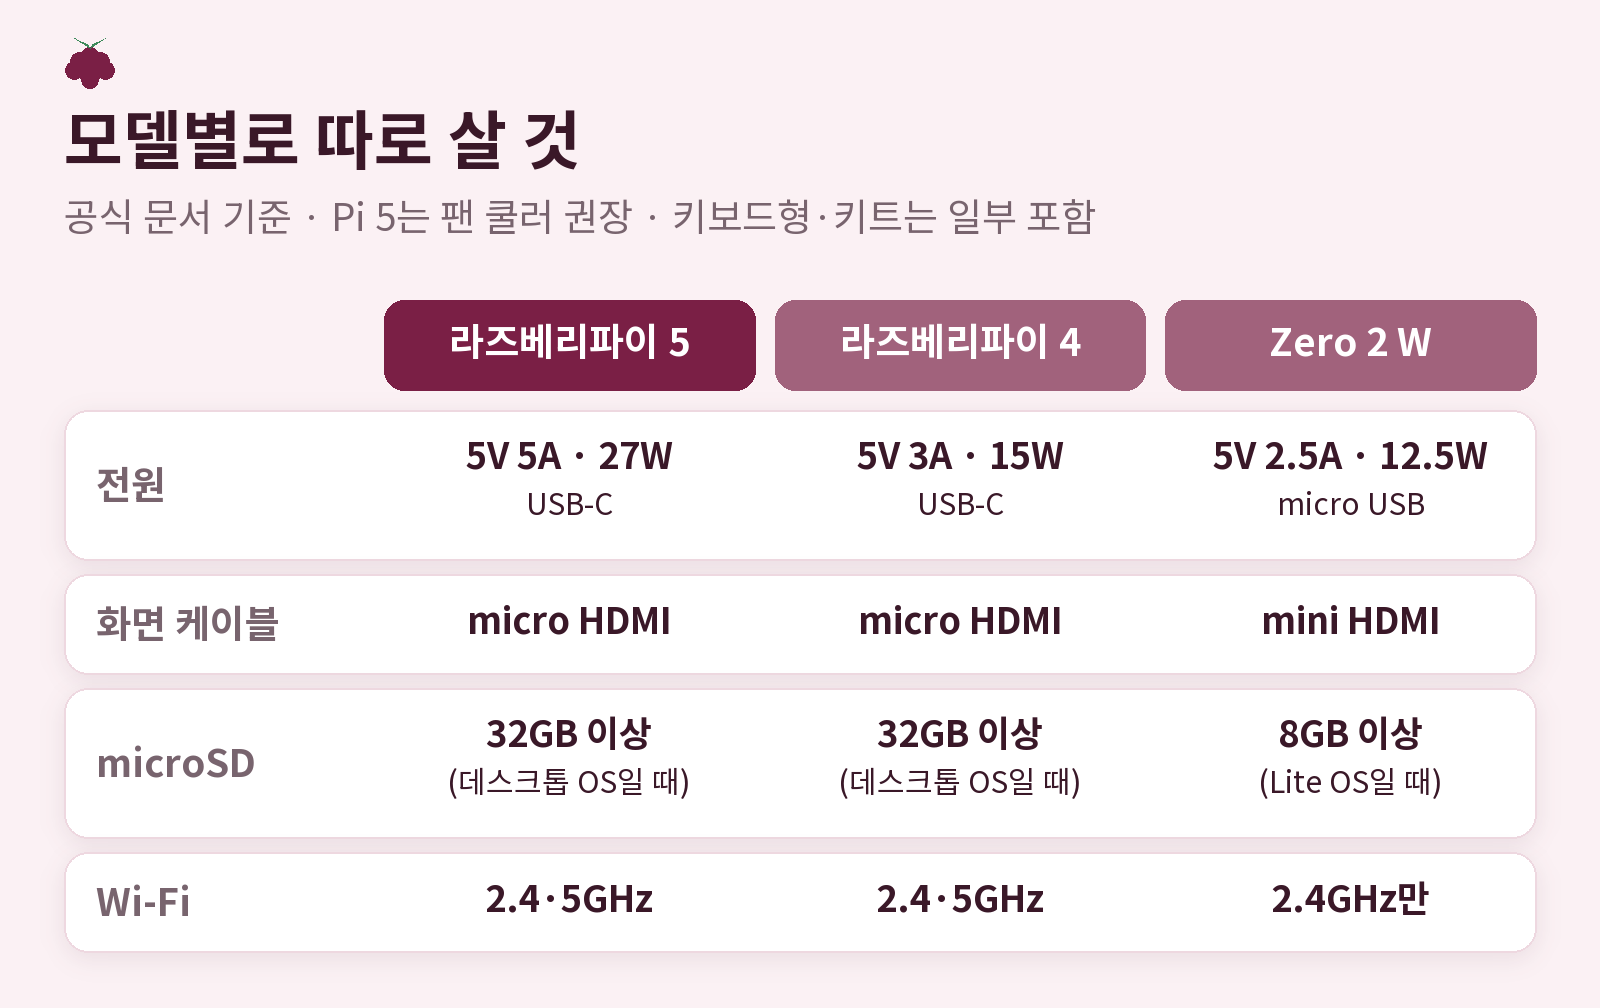
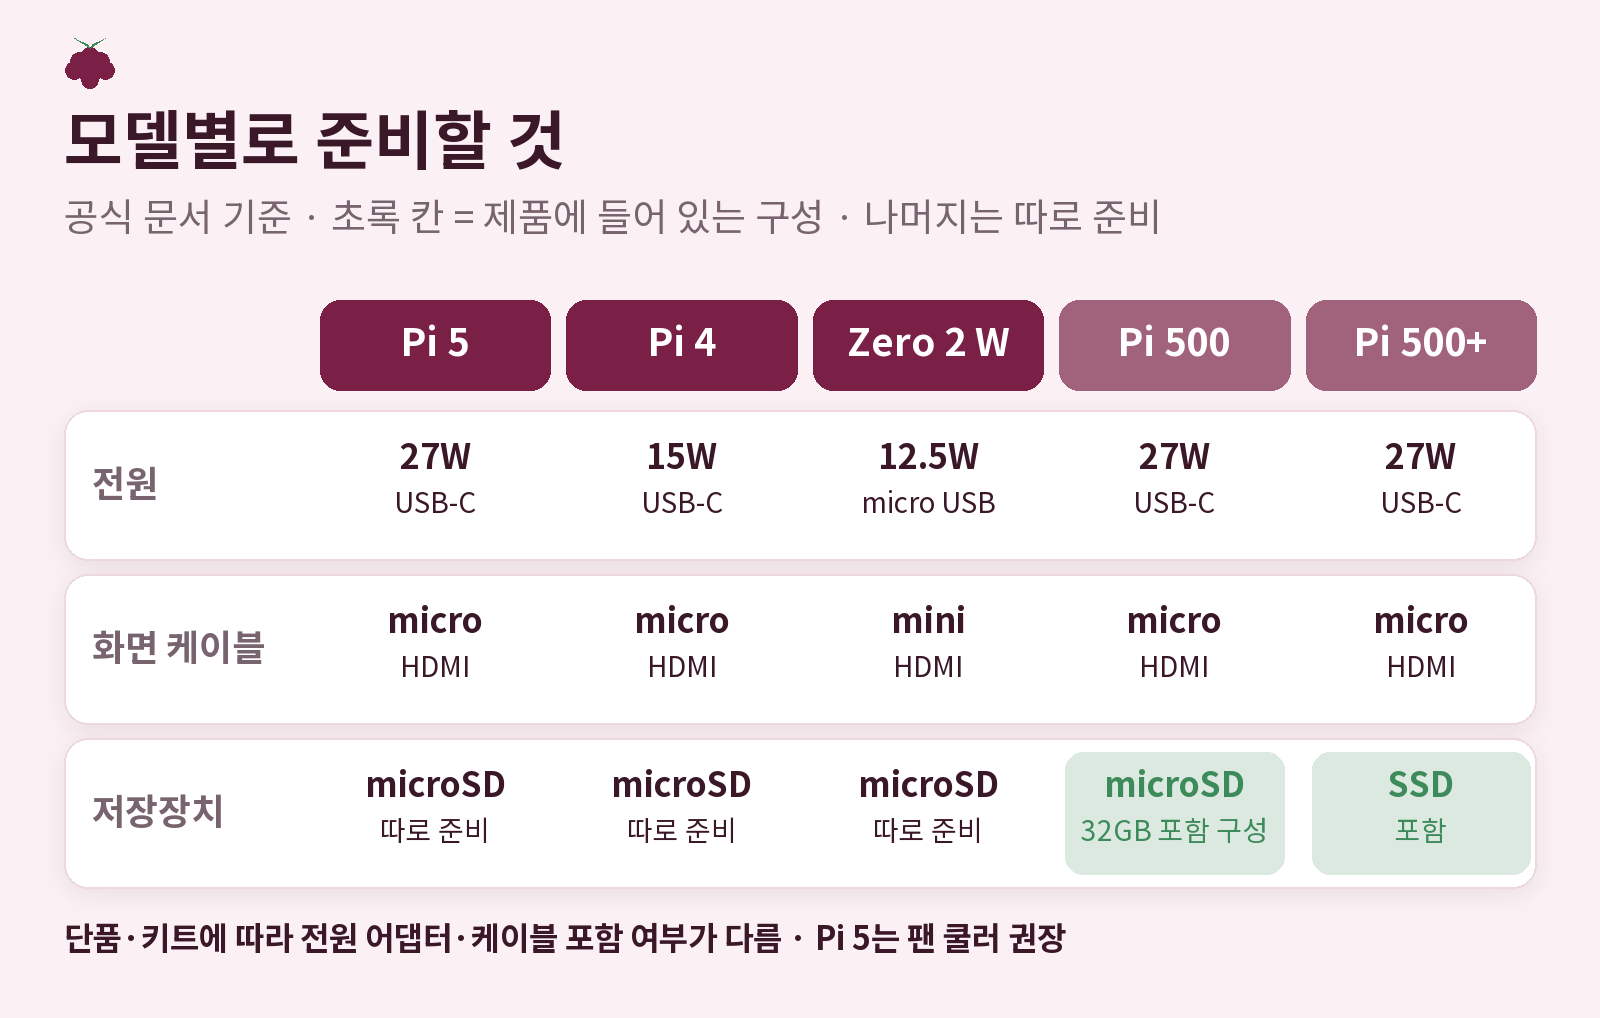
라즈베리파이 사기 전에 글 검수 반영(모델별 전원·저장장치, 그림 04·05 수정)

Changed region(s): [[0.0312, 0.4306, 0.9688, 0.9534], [0.1875, 0.2768, 0.9375, 0.3998], [0.0312, 0.0923, 0.7188, 0.246]]

diff --git a/문서/네이버-코딩가이드/20261124_라즈베리파이-사기-전에/index.html b/문서/네이버-코딩가이드/20261124_라즈베리파이-사기-전에/index.html
@@ -6,7 +6,7 @@
 글 제목: 라즈베리파이 사기 전에, 어떤 모델에 무엇을 같이 살까?
 태그: #라즈베리파이 #라즈베리파이5 #라즈베리파이구매 #라즈베리파이전원 #라즈베리파이피코 #라즈베리파이제로 #microSD #코딩교육 #리눅스 #아두이노라즈베리파이
 검색 설명: 라즈베리파이는 모델마다 쓰임과 따로 사야 할 준비물이 다릅니다. 라즈베리파이 5·4·Zero 2 W·키보드형·피코의 차이, 메모리 고르는 법, 모델별 전원(27W·15W)·화면 케이블·microSD 용량을 공식 문서 기준으로 정리했습니다.
-글자 수: 본문 공백 포함 2,048자 / 공백 제외 1,612자 (빨간 글씨 이미지 표시·줄바꿈 제외, 2026.11.24)
+글자 수: 본문 공백 포함 2,588자 / 공백 제외 2,039자 (빨간 글씨 이미지 표시·줄바꿈 제외, 2026.11.24)
 계기: 사용자가 '라즈베리파이'를 소재로 요청, 제안 A안. 11/23 「마이크로비트 사기 전에 알 7가지」와 짝이 되는 구매 전 안내 글.
 
 [이미지 순서]
@@ -14,11 +14,12 @@
 - 01-타이틀.png (ChatGPT, 1080×1080) — 표지
 - 02-라즈베리파이-종류.png (AI, 가로) — 다섯 갈래 모델이 어떻게 다른지 한눈에
 - 03-같이-살-준비물.png (ChatGPT 실사 + 이름표, 3:2) — 보드 말고 따로 사야 하는 것이 어떻게 생겼는지
-- 04-모델별-준비물.png (AI, 가로 표) — 모델마다 전원·화면 케이블·저장 장치가 어떻게 다른지
+- 04-모델별-준비물.png (AI, 가로 표) — 다섯 모델(5·4·Zero 2 W·500·500+)의 전원·화면 케이블·저장장치, 제품에 포함된 것(초록 칸)과 따로 준비할 것 구분
 - 05-나에게-맞는-모델.png (AI, 세로) — 하고 싶은 일로 모델 고르기
 - 06-함께-보면-좋은-글.png (AI 배너, 1600×234) — 이 글 디자인에 맞춘 배너
 
 [근거] 2026.11.24 Raspberry Pi 공식 누리집에서 확인
+- 2026.11.24 외부 검수 반영: 500·500+도 27W USB-C(공식 문서 전원 표), Zero 2 W 5V 2.5A micro USB, 500+는 SSD 기본 저장장치(500+ 제품 페이지 'SSD for super-fast boot times' 확인), 500은 32GB microSD 포함 구성, 500·500+ micro HDMI(공식 문서). 원격 접속(headless) 사용 시 모니터 등 생략 가능은 Getting started 문서의 headless 설정.
 - 제품 목록 https://www.raspberrypi.com/products/ : Pi 5, Pi 500·500+(키보드형), Compute Module 5, Pico 2(RP2350 마이크로컨트롤러), Zero 2 W, Pi 4 Model B 등.
 - Pi 5 제품 페이지 https://www.raspberrypi.com/products/raspberry-pi-5/ : BCM2712 2.4GHz 4코어 Cortex-A76, 메모리 1·2·4·8·16GB, 듀얼 4Kp60 HDMI, 듀얼밴드 Wi-Fi, BT 5.0, USB 3.0 2개·2.0 2개, 기가비트 이더넷, PCIe 2.0 x1(별도 M.2 HAT 필요), 5V/5A USB-C PD, RTC, 전원 버튼, 2036년 1월까지 생산. FAQ: Pi 4 전원은 힘이 부족할 수 있어 5V 5A 권장, Pi 4 케이스에 맞지 않음, 능동 냉각을 쓰면 가장 좋은 성능, 운영체제는 Trixie(현재)·Bookworm(이전)만 지원.
 - Pi 4 제품 페이지: BCM2711 1.8GHz 4코어 Cortex-A72, 메모리 1·2·3·4·8GB, 2034년 1월까지 생산.
@@ -34,7 +35,7 @@
 
 <p>&nbsp;</p>
 <h3 style="font-size:18px;margin:24px 0 8px;color:#7a1f45;">▷ 한 줄로 말하면</h3>
-<p style="font-size:16px;">처음이라면 라즈베리파이 5와 전용 전원, microSD를 함께 사는 것이 가장 무난합니다.<br>다만 하고 싶은 일이 작고 가벼우면 Zero 2 W나 피코가 더 맞을 수 있습니다.</p>
+<p style="font-size:16px;">일반적인 리눅스 사용과 코딩 실습, 데스크톱 환경까지 경험하고 싶다면 라즈베리파이 5를 고려할 수 있습니다.<br>다만 간단한 센서 제어는 피코, 작은 컴퓨터가 필요하다면 Zero 2 W가 더 적합할 수 있습니다.</p>
 
 <p>&nbsp;</p>
 <hr style="border:none;border-top:1px solid #cfcfcf;margin:8px 0;">
@@ -61,29 +62,32 @@
 
 <p>&nbsp;</p>
 <h3 style="font-size:18px;margin:24px 0 8px;">▷ 메모리는 몇 GB로 살까?</h3>
-<p style="font-size:16px;">라즈베리파이 5는 1GB부터 16GB까지 다섯 가지가 있습니다.<br>공식 권장 기준은 따로 없습니다.</p>
-<p style="font-size:16px;">일반적으로 코딩 실습이나 센서 연결처럼 가벼운 일은 2GB 안팎으로도 충분하다고 알려져 있습니다.<br>화면을 띄워 웹 브라우저를 여러 개 쓰려면 4GB 이상을 고르는 경우가 많습니다.</p>
+<p style="font-size:16px;">라즈베리파이 5는 1GB부터 16GB까지 다섯 가지가 있습니다.<br>라즈베리파이 4도 1GB부터 8GB까지 여러 메모리 모델이 있어, 중고 제품이나 재고 상품을 살 때는 모델명뿐 아니라 메모리 용량도 확인해야 합니다.</p>
+<p style="font-size:16px;">공식 권장 기준은 따로 없어, 메모리 용량은 사용 목적에 따라 고르면 됩니다.<br>가벼운 실습과 간단한 프로그램은 낮은 용량으로도 가능하지만, 데스크톱 환경에서 웹 브라우저와 여러 프로그램을 함께 쓰려면 메모리가 넉넉한 모델이 유리합니다.</p>
 
 <p>&nbsp;</p>
 <hr style="border:none;border-top:1px solid #cfcfcf;margin:8px 0;">
 <h2 style="font-size:24px;margin:40px 0 12px;">보드만 사면 켜질까?</h2>
-<p style="font-size:16px;">보드만으로는 켜지지 않습니다.<br>키보드형이나 키트가 아니라면 아래 준비물이 따로 필요합니다.</p>
+<p style="font-size:16px;">보드형 라즈베리파이를 쓰려면 먼저 전원과 운영체제가 설치된 저장장치를 준비해야 합니다.<br>모니터·키보드·마우스는 직접 연결해 쓸 때 필요하고, 다른 컴퓨터에서 원격으로 접속해 쓴다면 생략할 수도 있습니다.</p>
 
 <p style="font-size:16px;color:#e60000;font-weight:bold;">[[ 이미지: 같이 살 준비물 (03-같이-살-준비물.png) ]]</p>
 
 <p>&nbsp;</p>
 <h3 style="font-size:18px;margin:24px 0 8px;">▷ 전원 어댑터</h3>
 <p style="font-size:16px;">공식 문서는 라즈베리파이 5에 5V 5A, 27W USB-C 전원을 권합니다.<br>5V 3A 전원을 쓰면 USB 주변기기에 줄 수 있는 전기가 600mA로 제한됩니다.</p>
-<p style="font-size:16px;">라즈베리파이 4는 5V 3A(15W) USB-C 전원이 권장됩니다.<br>휴대폰 충전기는 출력이 맞지 않으면 전원이 모자랄 수 있으니 숫자를 꼭 확인하세요.</p>
+<p style="font-size:16px;">라즈베리파이 4는 5V 3A(15W) USB-C, Zero 2 W는 5V 2.5A micro USB 전원이 권장됩니다.<br>키보드형 500과 500+는 Pi 5와 마찬가지로 5V 5A를 내는 27W USB-C 전원이 권장됩니다.</p>
+<p style="font-size:16px;">휴대폰 충전기는 출력이 맞지 않으면 전원이 모자랄 수 있으니 숫자를 꼭 확인하세요.</p>
 
 <p>&nbsp;</p>
 <h3 style="font-size:18px;margin:24px 0 8px;">▷ microSD 카드</h3>
 <p style="font-size:16px;">운영체제가 들어갈 저장 장치입니다.<br>화면이 있는 Raspberry Pi OS는 32GB 이상, 화면 없는 Lite 버전은 8GB 이상이 권장됩니다.</p>
 <p style="font-size:16px;">컴퓨터에 운영체제를 구워 넣으려면 SD 카드 리더기도 있어야 합니다.</p>
+<p style="font-size:16px;">키보드형은 저장장치 구성이 다릅니다.<br>500은 운영체제가 설치된 32GB microSD가 포함된 구성이 있고, 500+는 SSD가 기본 저장장치로 들어 있습니다.</p>
+<p style="font-size:16px;">단품인지 키트인지에 따라 전원 어댑터와 케이블 같은 구성품이 달라지므로, 구매 페이지에서 포함 품목을 확인하세요.</p>
 
 <p>&nbsp;</p>
 <h3 style="font-size:18px;margin:24px 0 8px;">▷ 화면 케이블과 키보드·마우스</h3>
-<p style="font-size:16px;">라즈베리파이 5·4는 작은 micro HDMI 단자를 씁니다.<br>Zero 2 W는 그보다 조금 큰 mini HDMI라, 일반 HDMI 케이블은 바로 꽂히지 않습니다.</p>
+<p style="font-size:16px;">라즈베리파이 5·4·500·500+는 작은 micro HDMI 단자를 씁니다.<br>Zero와 Zero 2 W는 mini HDMI 단자를 씁니다. 일반 HDMI 케이블은 바로 꽂히지 않으므로 모델에 맞는 케이블이나 어댑터가 필요합니다.</p>
 
 <p>&nbsp;</p>
 <h3 style="font-size:18px;margin:24px 0 8px;">▷ 케이스와 쿨러</h3>
@@ -98,19 +102,20 @@
 <p style="font-size:16px;color:#e60000;font-weight:bold;">[[ 이미지: 나에게 맞는 모델 (05-나에게-맞는-모델.png) ]]</p>
 <ul style="font-size:16px;">
 <li>작은 컴퓨터로 코딩·리눅스를 배우고 싶다 → 라즈베리파이 5</li>
-<li>책상에 바로 두고 쓰고 싶다 → 키보드형 500(운영체제 설치된 microSD 포함)</li>
+<li>모니터에 연결해 별도 본체 없이 책상에서 쓰고 싶다 → 키보드형 500 또는 500+(500은 microSD, 500+는 SSD 구성 확인)</li>
 <li>작게 숨겨 두고 한 가지 일만 시키고 싶다 → Zero 2 W</li>
 <li>LED·센서만 다루고 싶다 → 피코(컴퓨터가 아님)</li>
 </ul>
 
 <p>&nbsp;</p>
 <hr style="border:none;border-top:1px solid #cfcfcf;margin:8px 0;">
-<h2 style="font-size:24px;margin:40px 0 12px;">장바구니에 담기 전, 상품 설명에서 볼 네 줄</h2>
+<h2 style="font-size:24px;margin:40px 0 12px;">장바구니에 담기 전, 상품 설명에서 볼 다섯 줄</h2>
 <ul style="font-size:16px;">
 <li>모델 이름과 메모리 용량(예: 5 · 4GB)</li>
-<li>전원 어댑터가 들어 있는지, 들어 있다면 5V 몇 A인지</li>
-<li>microSD에 운영체제가 미리 깔려 있는지</li>
+<li>전원 어댑터가 들어 있는지, 들어 있다면 출력이 몇 V 몇 A인지</li>
+<li>운영체제가 설치된 microSD나 SSD가 들어 있는지</li>
 <li>화면 케이블이 micro HDMI인지 mini HDMI인지</li>
+<li>케이스와 냉각 장치가 들어 있는지(Pi 5는 팬으로 식히면 성능 유지에 유리)</li>
 </ul>
 <p style="font-size:16px;">가격은 판매처와 환율에 따라 크게 달라집니다.<br>같은 모델이라도 '보드만'인지 '키트'인지부터 비교하면 헷갈리지 않습니다.</p>
 

diff --git a/AGENTS.md b/AGENTS.md
@@ -243,6 +243,7 @@
   - 구성: 이름이 여러 개 → 타이틀 → h3 한 줄로 말하면(자주) → 종류는 몇 개(다섯 갈래, 피코는 컴퓨터 아님) → 5와 4 차이(h3 메모리 몇 GB) → 보드만 사면 켜질까(h3 전원·microSD·화면 케이블·케이스와 쿨러) → 하고 싶은 일로 고르면 → '장바구니에 담기 전, 상품 설명에서 볼 네 줄'. h3 기호 ▷.
   - 이미지 6장: AI 02 다섯 갈래(가로 다섯 칸, 컴퓨터/마이크로컨트롤러 배지)·04 모델별 따로 살 것(가로 표: 전원·화면 케이블·microSD·Wi-Fi — 처음 넣은 '냉각' 줄은 Pi 4·Zero 값이 공식 근거가 없어 Wi-Fi로 바꿈)·05 하고 싶은 일로 고르기(세로 카드)·06 이 글 배너(흰 원 안 라즈베리 열매) — 연한 라즈베리 분홍·짙은 자주·잎 초록, 머리에 라즈베리 아이콘, 스크립트 scratchpad/tgs/rpi.py. 링크는 세 보드 비교 글·마이크로비트 사기 전에 글(둘 다 네이버 · 아두이노·라즈베리파이 · 11.23). ChatGPT 01 타이틀('라즈베리파이 / 사기 전에 볼 것')·03 같이 살 준비물 플랫레이 + 이름표(3:2) 요청 중.
   - ChatGPT 이미지 2장 적용(원본 scratchpad/backup/rpi-01·03-original.png): 01 타이틀(라즈베리 열매·택배 상자·USB-C 어댑터·microSD·HDMI 케이블·초록 보드, 로고 없음, 글자 정확, 노란 둘째 줄 약 90%라 94%로 줄여 흐린 원본 위에 40px로 섞음)·03 준비물(이름표 6개 정확, 보드에 찍힌 'HDMI' 글자는 주변 초록으로 덮음, 1536×1024 → 1620×1080). 03의 보드 단자 모양은 전원 micro USB·풀사이즈 HDMI 하나로 그려져 실제 라즈베리파이 5(USB-C 전원·micro HDMI 두 개)와 다르다 — 생김새 예시 그림이라 그대로 두되 사용자에게 알림. 이미지 6장 완료, 대기 중인 요청 없음.
+  - 같은 날 외부 검수 열 가지 반영(공백 포함 2,588자): 한 줄 요약을 '리눅스·코딩·데스크톱까지 경험하려면 Pi 5를 고려, 센서 제어는 피코·작은 컴퓨터는 Zero 2 W'로, Pi 4 메모리(1~8GB)와 중고·재고 구매 때 용량 확인, 메모리는 '공식 기준 없음·사용 목적에 따라'(특정 용량 단정 삭제), '보드만으로는 켜지지 않는다' → '전원과 OS가 설치된 저장장치를 준비, 모니터·키보드는 원격 접속이면 생략 가능', 전원에 Zero 2 W(5V 2.5A micro USB)·500·500+(27W USB-C) 추가, 500은 32GB microSD 포함 구성·500+는 SSD 기본, 단품/키트 구성품 확인, 화면 케이블에 500·500+·Zero 포함, 고르기 목록에 500·500+, 장바구니 체크 다섯 줄(OS 설치 저장장치·케이스와 냉각 추가). 그림 04를 다섯 모델 × 전원·화면 케이블·저장장치 표로 다시 그림(포함 구성은 초록 칸, Wi-Fi 줄은 뺌), 05 '키보드형 500·500+'. **제품 구매 안내 기준**: 같은 계열 모델(500·500+)도 구성(저장장치)이 다르면 나눠 쓴다. '~만으로는 켜지지 않는다'처럼 동작을 단정하지 말고 '사용하려면 무엇이 필요하다'로 쓴다. 메모리 같은 선택지는 공식 기준이 없으면 용량을 못박지 않는다. 그림에 '제품에 포함'과 '따로 준비'를 시각적으로 나눈다.
 - 2026-11-24: `문서/네이버-코딩가이드/20261124_겨울-설악산-등산/index.html` 작성("겨울 설악산 등산, 통제 구간과 꼭 챙길 장비", 카테고리 여행·취미·문화, 공백 포함 1,934자). 구글 인기 검색어 '설악산' 기준 추천 4번. 바로 발행 권장(고지대 통제 12월 15일까지).
   - 근거: **국립공원공단 누리집 '입산시간지정제' 설악산 표**(knps.or.kr/portal/main/contents.do?menuNo=8000198, 표 caption으로 공원별 표를 찾아 읽음 — 동절기 11~3월 04시 입산, 비선대→마등령·한계령→한계령삼거리 10시, 오색→대청봉 11시, 비선대→양폭 12시, 백담→소청·오세암 13시, 비선대→금강굴 14시, 소공원 낮은 길은 일몰 후~일출 2시간 전 제한, 대피소 예약자 1~2시간 연장, 동절기 대피소 입실 15~18시)와 **'통제정보' 설악산 상세**(acsCtrDtl.do?rstId=0008, 11.23 21시 기준: 고지대 통제, 금강굴·대승폭포 14시까지). 산불 통제 11.15~12.15 전국 148개·설악산 11개 구간(강원일보 11.6, 국립공원공단 발표), 겨울철 자연재난 대책기간 11.15~3.15(더팩트 11.15). 표의 '한계산성→대승폭포 16시'와 통제정보의 '대승폭포 14시'가 달라 그림 04에서 대승폭포 줄은 뺌. 과태료 금액은 보도로만 확인돼 쓰지 않음.
   - 구성: 길이 막히거나 입산이 일찍 마감 → 타이틀 → h3 한 줄로 말하면(청록) → 늦가을부터 한 달 고지대 길이 닫힌다(11개 구간, 낮은 길·그날 통제정보) → 몇 시까지 들어가야 할까(입산시간지정제, h3 대피소에서 하룻밤) → 겨울 산에 꼭 챙길 것(아이젠·스패츠 등, h3 산에서 눈을 만나면?) → '떠나기 전날 밤, 휴대폰으로 확인할 것'. h3 기호 ▶.
